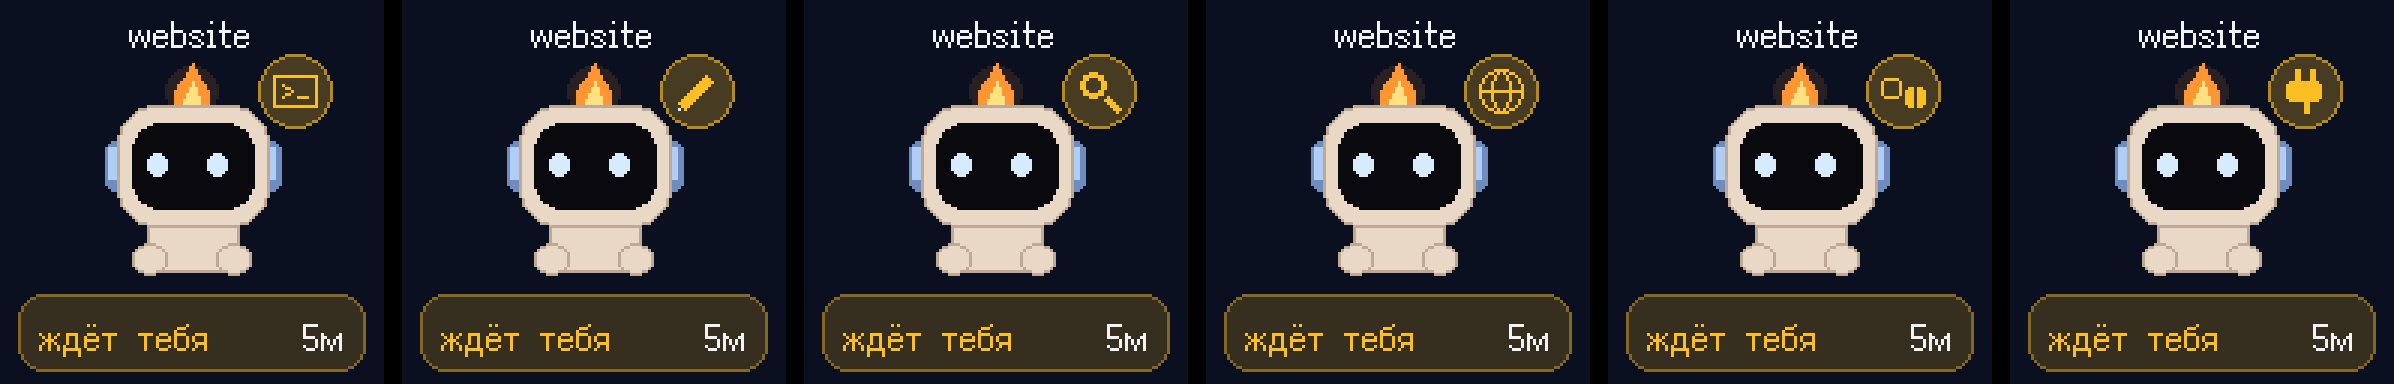
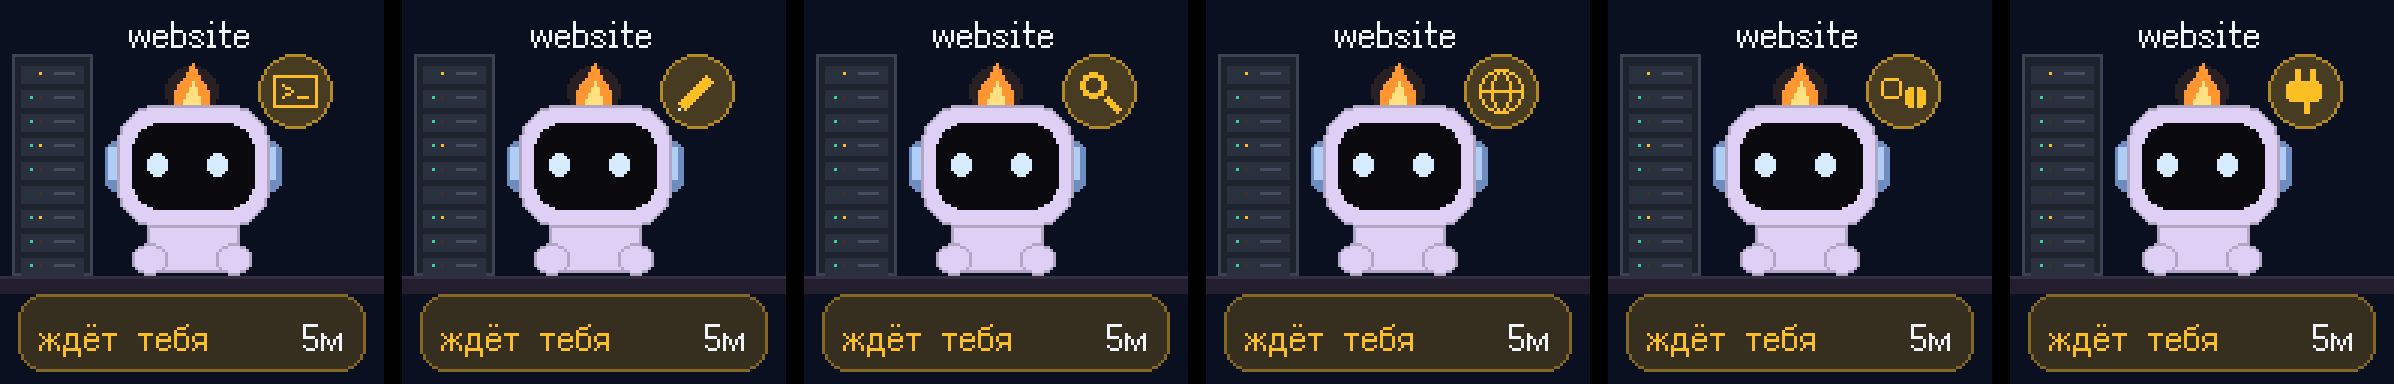
Office corners: every session gets its own room and robot colour
Six corners (night city, library, server rack, garden, whiteboard, cafe)
with small animated details, and six shell tints. A new session takes the
first look no other session has, so screens never look alike, even for two
sessions of the same project. The dispatcher says "готово" rather than
"эй!" when it points at a finished session, and the 5-hour limit under it
moved to one row at the bottom.

Changed region(s): [[0.0, 0.125, 1.0, 0.75]]

diff --git a/rooms.py b/rooms.py
@@ -1,0 +1,95 @@
+"""The office: a different corner behind every session's robot, so screens never look alike.
+
+Each corner keeps to the sides (x < 34 or x > 94) and the floor, leaving the middle to the robot, and is drawn
+in muted colours so the robot stays the brightest thing on the screen. Small details move with the frame
+index `i` (server lights, steam, city windows), so a corner is alive even while its robot sits still.
+"""
+from style import mix
+
+FLOOR = (34, 30, 46)
+FLOOR_LINE = (52, 46, 66)
+NAMES = ("city", "library", "servers", "garden", "board", "cafe")
+
+
+def floor(d):
+    d.rectangle((0, 92, 127, 97), fill=FLOOR)
+    d.line((0, 92, 127, 92), fill=FLOOR_LINE)
+
+
+def city(d, i):
+    """A night window with a skyline whose windows switch on and off."""
+    d.rectangle((4, 20, 32, 58), fill=(18, 24, 52), outline=(70, 76, 104))
+    d.line((18, 20, 18, 58), fill=(70, 76, 104))
+    for x, h in ((6, 18), (11, 26), (20, 14), (25, 22)):
+        d.rectangle((x, 57 - h, x + 4, 57), fill=(40, 46, 78))
+        for k, y in enumerate(range(59 - h, 56, 4)):
+            if (x + y + i) % 3:
+                d.point((x + 2, y), fill=(250, 204, 21) if (x + k + i // 2) % 4 == 0 else (90, 90, 70))
+    d.point((28, 24), fill=(241, 245, 249))  # a star
+
+
+def library(d, i):
+    """A bookshelf on the right."""
+    d.rectangle((97, 20, 124, 91), fill=(46, 34, 30), outline=(74, 56, 46))
+    colours = [(167, 139, 250), (56, 189, 248), (251, 146, 60), (52, 211, 153), (248, 113, 113), (251, 191, 36)]
+    for row, y in enumerate((24, 46, 68)):
+        d.line((97, y + 19, 124, y + 19), fill=(74, 56, 46))
+        x = 99
+        for k in range(6):
+            w = 3 + (row + k) % 2
+            top = y + 4 + (k * 5 + row) % 6
+            d.rectangle((x, top, x + w - 1, y + 18), fill=mix(colours[(k + row * 2) % 6], 0.55))
+            x += w + 1
+
+
+def servers(d, i):
+    """A server rack with blinking lights."""
+    d.rectangle((4, 18, 30, 91), fill=(30, 34, 44), outline=(60, 66, 82))
+    for k, y in enumerate(range(22, 88, 8)):
+        d.rectangle((7, y, 27, y + 5), fill=(42, 48, 62))
+        on = (k * 7 + i) % 5
+        d.point((10, y + 2), fill=(52, 211, 153) if on else (24, 60, 50))
+        d.point((13, y + 2), fill=(251, 191, 36) if (k + i) % 3 == 0 else (60, 52, 30))
+        d.line((18, y + 2, 24, y + 2), fill=(70, 78, 96))
+
+
+def garden(d, i):
+    """A sunny window and a potted plant."""
+    d.rectangle((96, 20, 124, 52), fill=(30, 58, 92), outline=(70, 96, 124))
+    d.ellipse((103, 25, 113, 35), fill=(251, 191, 36))
+    cx = 98 + (i % 8)  # a cloud drifting by
+    d.ellipse((cx, 40, cx + 10, 46), fill=(200, 214, 230))
+    d.rectangle((10, 80, 24, 91), fill=(160, 90, 60))
+    for dx, dy in ((-4, -6), (0, -12), (4, -7), (-1, -18), (3, -15)):
+        d.ellipse((15 + dx, 76 + dy, 19 + dx, 82 + dy), fill=(52, 160, 100))
+
+
+def board(d, i):
+    """A whiteboard with scribbles and sticky notes."""
+    d.rectangle((94, 18, 124, 52), fill=(214, 220, 228), outline=(120, 128, 140))
+    for y, w in ((24, 18), (29, 12), (34, 20), (39, 9)):
+        d.line((98, y, 98 + w, y), fill=(56, 92, 170))
+    d.rectangle((112, 40, 119, 47), fill=(251, 191, 36))
+    d.rectangle((103, 42, 109, 48), fill=(244, 114, 182))
+    d.line((94, 53, 94, 91), fill=(90, 96, 110))
+    d.line((124, 53, 124, 91), fill=(90, 96, 110))
+
+
+def cafe(d, i):
+    """A coffee machine with rising steam."""
+    d.rectangle((6, 54, 28, 91), fill=(60, 64, 76), outline=(90, 96, 110))
+    d.rectangle((10, 58, 24, 66), fill=(30, 34, 44))
+    d.point((12, 62), fill=(52, 211, 153))
+    d.rectangle((13, 78, 21, 86), fill=(241, 245, 249))
+    d.rectangle((21, 80, 23, 84), outline=(241, 245, 249))
+    for k in range(3):
+        y = 74 - ((i * 2 + k * 4) % 12)
+        d.point((15 + k * 2 + (y % 2), y), fill=(150, 160, 180))
+
+
+DRAW = {"city": city, "library": library, "servers": servers, "garden": garden, "board": board, "cafe": cafe}
+
+
+def draw(d, name: str, i: int):
+    floor(d)
+    DRAW[name](d, i)

diff --git a/render.py b/render.py
@@ -3,11 +3,13 @@
 Every screen keeps a few large words: Ark Pixel for Cyrillic labels, Departure Mono for figures.
 """
 import time
+import zlib
 
 from PIL import Image, ImageDraw, ImageOps
 
 import limits
 import robot
+import rooms
 import state
 import style
 from style import BG, CARD, EDGE, FAINT, FG, MUTED, NUM, NUM3, TEXT, TEXT2
@@ -121,15 +123,20 @@ def session_screen(sess: dict) -> list:
     name = fit(sess["name"], TEXT)
     timer = "" if status == "idle" else duration(time.time() - sess["since"])
 
+    # Every session has its own corner of the office and its own robot colour (state.update_session picks one
+    # no other session uses); sessions from before that get one from their name.
+    look = sess.get("look", zlib.crc32(sess["name"].encode()) % len(rooms.NAMES))
+
     def background(i):
         img, d = canvas()
+        rooms.draw(d, rooms.NAMES[look % len(rooms.NAMES)], i)
         d.text((64, 3), name, font=TEXT, fill=FG, anchor="ma")
         d.rounded_rectangle((6, 98, 121, 123), radius=8, fill=style.mix(colour, 0.18), outline=style.mix(colour, 0.5))
         d.text((13, 104), label, font=TEXT, fill=colour)
         d.text((115, 104), timer, font=TEXT, fill=FG, anchor="ra")
         return img, d
 
-    frames = robot.animate(robot.STATUSES[status], 0.74, 64, 20, background)
+    frames = robot.animate(robot.STATUSES[status], 0.74, 64, 20, background, body=robot.BODIES[look % len(robot.BODIES)])
     if status == "waiting_for_user":
         for f in frames:  # after the robot, so the badge covers its "?"
             tool_badge(ImageDraw.Draw(f), sess.get("text", ""), colour)
@@ -163,7 +170,8 @@ def companion_emotion(s: dict):
 
 
 def mini_limit(d, data: dict):
-    """The 5-hour limit under the dispatcher, for when sessions take every screen and no widget shows it."""
+    """The 5-hour limit in one row at the very bottom, under the dispatcher's feet, for when sessions take
+    every screen and no widget shows it."""
     window = data.get("five_hour") or {}
     used = window.get("used_percentage")
     if not isinstance(used, (int, float)):
@@ -171,11 +179,11 @@ def mini_limit(d, data: dict):
     if isinstance(window.get("resets_at"), (int, float)) and window["resets_at"] <= time.time():
         used = 0
     colour = gauge_colour(used)
-    d.text((22, 100), "5ч", font=TEXT, fill=MUTED)
-    d.text((106, 96), f"{round(used)}%", font=NUM, fill=colour, anchor="ra")
-    d.rounded_rectangle((22, 118, 105, 122), radius=2, fill=style.mix(EDGE, 0.7))
+    d.text((8, 112), "5ч", font=TEXT, fill=MUTED)
+    d.rounded_rectangle((28, 116, 88, 121), radius=2, fill=style.mix(EDGE, 0.7))
     if used > 0:
-        d.rounded_rectangle((22, 118, 22 + max(4, round(83 * min(used, 100) / 100)), 122), radius=2, fill=colour)
+        d.rounded_rectangle((28, 116, 28 + max(4, round(60 * min(used, 100) / 100)), 121), radius=2, fill=colour)
+    d.text((121, 112), f"{round(used)}%", font=TEXT, fill=colour, anchor="ra")
 
 
 def companion_screen(s: dict, show_limit: bool = False) -> list:
@@ -185,7 +193,9 @@ def companion_screen(s: dict, show_limit: bool = False) -> list:
         frames = [ImageOps.mirror(f) for f in frames]  # the robot is symmetric, only the gesture flips
     _, colour, label = robot.EMOTIONS[emotion]
     if emotion == "waving":
-        label = "← эй!" if side == -1 else "эй! →"
+        # "эй!" when a session asks permission, "готово" when it has just finished.
+        word = "эй!" if any(x["status"] == "waiting_for_user" for x in state.live_sessions(s).values()) else "готово"
+        label = f"← {word}" if side == -1 else f"{word} →"
     data = (limits.for_account(s.get("account")) or {}) if show_limit else {}
     for f in frames:
         if label:

diff --git a/make_docs.py b/make_docs.py
@@ -1,0 +1,74 @@
+"""Regenerates the README pictures in docs/ from example data (no device, no real sessions needed).
+
+Usage: python3 make_docs.py
+"""
+import json
+import os
+import tempfile
+import time
+from pathlib import Path
+
+os.environ.pop("CLAUDE_CODE_USER_EMAIL", None)  # example data only, never the account running this
+
+import limits
+import render
+import robot
+import state
+from PIL import Image
+
+OUT = Path(__file__).parent / "docs"
+ME = "you@example.com"
+
+
+def strip(images, name, scale=3, gap=6):
+    sheet = Image.new("RGB", (len(images) * (128 + gap) - gap, 128), (0, 0, 0))
+    for i, f in enumerate(images):
+        sheet.paste(f, (i * (128 + gap), 0))
+    sheet.resize((sheet.width * scale, sheet.height * scale), Image.NEAREST).save(OUT / f"{name}.png", optimize=True)
+
+
+def gif(frames, name, scale=3):
+    big = [f.resize((128 * scale, 128 * scale), Image.NEAREST) for f in frames]
+    big[0].save(OUT / f"{name}.gif", save_all=True, append_images=big[1:], loop=0,
+                duration=[f.info.get("duration", 200) for f in frames])
+
+
+def main():
+    OUT.mkdir(exist_ok=True)
+    state.DATA = Path(tempfile.mkdtemp())
+    state.PATH = state.DATA / "state.json"
+    limits.PATH = state.DATA / "limits.json"
+    now = time.time()
+    limits.PATH.write_text(json.dumps({"at": now, "accounts": {ME: {
+        "at": now, "label": "работа", "history": [[now - 3600, 34], [now, 64]],
+        "five_hour": {"used_percentage": 64, "resets_at": now + 7400},
+        "seven_day": {"used_percentage": 38, "resets_at": now + 3 * 86400}}}}))
+    hour = time.localtime().tm_hour
+    state.PATH.write_text(json.dumps({**state.empty(), "done_total": 64, "last_event": now, "account": ME,
+        "busy_hours": {str(max(0, hour - k)): v for k, v in [(1, 3000), (2, 2400), (3, 1800), (4, 3600), (6, 1200)]}}))
+
+    state.update_session("a", "api-server", "working", account=ME)
+    state.update_session("b", "website", "waiting_for_user", "Bash", account=ME)
+    with state.mutate() as s:
+        s["companion"]["until"] = 0
+    screens = render.render_all(state.load())
+    for i, frames in enumerate(screens):
+        gif(frames, f"gate-{i + 1}")
+    strip([f[0] for f in screens], "gate")
+
+    for sid in ("a", "b"):
+        state.end_session(sid)
+    strip([f[0] for f in render.render_all(state.load())], "gate-idle")
+
+    statuses = ("working", "thinking", "waiting_for_user", "done", "working", "error")
+    strip([render.session_screen({"name": "api-server", "status": st, "since": now - 1500, "text": "Edit", "look": n})[1]
+           for n, st in enumerate(statuses)], "office")
+    strip([render.session_screen({"name": "website", "status": "waiting_for_user", "since": now - 400, "text": t,
+                                  "look": 2})[0] for t in ("Bash", "Edit", "Read", "WebFetch", "Agent", "mcp__x")],
+          "badges")
+    strip([robot.frames("neutral", level=lvl)[0] for lvl in (1, 2, 3, 5, 7, 10)], "levels")
+    print("docs/ updated")
+
+
+if __name__ == "__main__":
+    main()

diff --git a/robot.py b/robot.py
@@ -12,6 +12,8 @@ from style import BG, mix
 
 CREAM = (234, 216, 198)
 CREAM_SH = (190, 168, 150)
+# Shell tints, so every session's robot in the office is a different one.
+BODIES = (CREAM, (196, 232, 210), (222, 208, 244), (200, 222, 248), (248, 212, 190), (240, 230, 160))
 VISOR = (10, 10, 14)
 EAR = (110, 140, 190)
 EAR_HI = (175, 205, 245)
@@ -47,8 +49,11 @@ class Pen:
         return max(1, round(r * self.k))
 
 
-def draw_robot(pen, i, eyes="open", eye_c=EYE, flame_c=FLAME, hands="rest", look=0, dim=False, gold=False):
+def draw_robot(pen, i, eyes="open", eye_c=EYE, flame_c=FLAME, hands="rest", look=0, dim=False, gold=False,
+               body=None):
     d, p, box = pen.d, pen.p, pen.box
+    CREAM = body or globals()["CREAM"]
+    CREAM_SH = tuple(c * 4 // 5 for c in CREAM)
     flick, sway = [0, 2, 1, 3][i % 4], [0, 1, 0, -1][i % 4]
     if dim:
         flick, flame_c = flick // 2 - 3, mix(flame_c, 0.6)
@@ -185,9 +190,9 @@ def accessories(pen, i, level):
                 d.line([p(x, y - 3), p(x, y + 3)], fill=GOLD_HI)
 
 
-def animate(name, k, cx, top, background=None, level=1):
+def animate(name, k, cx, top, background=None, level=1, body=None):
     """Frames of animation `name` at scale k; `background(i)` returns (image, draw) to draw onto.
-    `level` dresses the robot with what it has unlocked (the companion only)."""
+    `level` dresses the robot with what it has unlocked (the companion only); `body` tints its shell."""
     count, ms, pose = ANIMATIONS[name]
     out = []
     for i in range(count):
@@ -199,7 +204,7 @@ def animate(name, k, cx, top, background=None, level=1):
             d = ImageDraw.Draw(img)
             d.fontmode = "1"
         pen = Pen(d, k, cx + dx, top + dy)
-        draw_robot(pen, i, gold=level >= 3, **kwargs)
+        draw_robot(pen, i, gold=level >= 3, body=body, **kwargs)
         accessories(pen, i, level)
         if extras:
             extras(pen, i)

diff --git a/state.py b/state.py
@@ -19,6 +19,7 @@ EMOTIONS = ("neutral", "happy", "waving", "bored", "surprised", "sad", "proud", 
 SLOTS = (2, 4, 1, 5)  # screens for sessions, nearest the companion first; screen 3 is the companion
 STALE_AFTER = 3 * 60 * 60  # a session silent this long is gone (closed app, killed process)
 REACTION_SECONDS = 20
+LOOKS = 6  # office corners (rooms.NAMES) and robot colours (robot.BODIES)
 LONG_TASK = 30 * 60
 
 
@@ -142,8 +143,13 @@ def update_session(sid: str, name: str, status: str, text: str = "", account: st
     if status not in STATUSES:
         raise StateError(f"Статус должен быть одним из: {', '.join(STATUSES)}")
     with mutate() as s:
-        sess = s["sessions"].setdefault(sid, {"name": _clean(name, 40), "status": None, "since": 0, "slot": None,
-                                              "account": account or None})
+        if sid not in s["sessions"]:
+            used = {x.get("look") for x in s["sessions"].values()}
+            # Office corner + robot colour: the first one no other session has, so screens never look alike.
+            look = next((n for n in range(LOOKS) if n not in used), len(s["sessions"]) % LOOKS)
+            s["sessions"][sid] = {"name": _clean(name, 40), "status": None, "since": 0, "slot": None,
+                                  "account": account or None, "look": look}
+        sess = s["sessions"][sid]
         if account:
             s["account"] = account
         if sess["slot"] is None:

diff --git a/README.md b/README.md
@@ -24,9 +24,9 @@ Inspired by [Pixel Agents](https://github.com/pixel-agents-hq/pixel-agents) and 
 | Activity | Claude's busy time per hour over the last 12 hours |
 | Level | The robot levels up with every finished answer and unlocks blush, golden headphones, a scarf, a star badge and a glow |
 
-<img src="docs/statuses.png" width="100%">
+<img src="docs/office.png" width="100%">
 
-Session statuses: thinking, working, waiting for you, done, error. When Claude asks for permission, a badge shows what for: terminal, file edit, search, web, sub-agent or an MCP tool.
+Every session gets its own corner of the office (night city window, library, server rack with blinking lights, garden, whiteboard, coffee machine) and its own robot colour, so two sessions of the same project never look alike. Session statuses: thinking, working, waiting for you, done, error. When Claude asks for permission, a badge shows what for: terminal, file edit, search, web, sub-agent or an MCP tool.
 
 <img src="docs/badges.png" width="100%">
 
@@ -120,7 +120,8 @@ launchctl kickstart -k gui/$(id -u)/com.agentgate.daemon   # restart the daemon
 | `hook.py` | Claude Code hook: session statuses |
 | `state.py` | Shared state, sessions, accounts, levels |
 | `limits.py` | Claude usage limits via `/usage` |
-| `render.py`, `robot.py`, `style.py` | The screens, the robot, palette and fonts |
+| `render.py`, `robot.py`, `rooms.py`, `style.py` | The screens, the robot, the office corners, palette and fonts |
+| `make_docs.py` | Regenerates the pictures in `docs/` |
 | `device.py` | Times Gate transport: frame server + `Device/PlayGif` |
 | `daemon.py` | Main loop, run by launchd |
 | `mcp_server.py` | MCP server for Claude Desktop chats |
